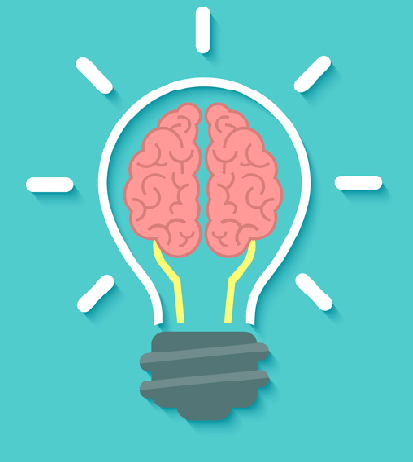
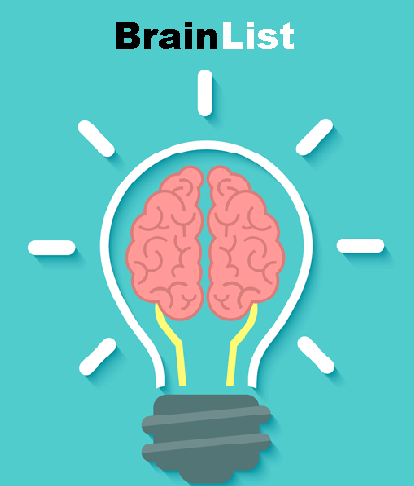
v 1

diff --git a/index.html b/index.html
@@ -1,101 +1,104 @@
 <!DOCTYPE html>
 <html lang="en">
-<head>
-	<title>Login V1</title>
-	<meta charset="UTF-8">
-	<meta name="viewport" content="width=device-width, initial-scale=1">
-<!--===============================================================================================-->	
-	<link rel="icon" type="image/png" href="images/icons/favicon.ico"/>
-<!--===============================================================================================-->
-	<link rel="stylesheet" type="text/css" href="vendor/bootstrap/css/bootstrap.min.css">
-<!--===============================================================================================-->
-	<link rel="stylesheet" type="text/css" href="fonts/font-awesome-4.7.0/css/font-awesome.min.css">
-<!--===============================================================================================-->
-	<link rel="stylesheet" type="text/css" href="vendor/animate/animate.css">
-<!--===============================================================================================-->	
-	<link rel="stylesheet" type="text/css" href="vendor/css-hamburgers/hamburgers.min.css">
-<!--===============================================================================================-->
-	<link rel="stylesheet" type="text/css" href="vendor/select2/select2.min.css">
-<!--===============================================================================================-->
-	<link rel="stylesheet" type="text/css" href="css/util.css">
-	<link rel="stylesheet" type="text/css" href="css/main.css">
-<!--===============================================================================================-->
-</head>
-<body>
-	
-	<div class="limiter">
-		<div class="container-login100">
-			<div class="wrap-login100">
-				<div class="login100-pic js-tilt" data-tilt>
-					<img src="images/img-01.png" alt="IMG">
-				</div>
 
-				<form class="login100-form validate-form">
-					<span class="login100-form-title">
+<head>
+  <title>BrainList</title>
+  <meta charset="UTF-8">
+  <meta name="viewport" content="width=device-width, initial-scale=1">
+  <!--===============================================================================================-->
+  <link rel="icon" type="image/png" href="images/icons/favicon.ico" />
+  <!--===============================================================================================-->
+  <link rel="stylesheet" type="text/css" href="vendor/bootstrap/css/bootstrap.min.css">
+  <!--===============================================================================================-->
+  <link rel="stylesheet" type="text/css" href="fonts/font-awesome-4.7.0/css/font-awesome.min.css">
+  <!--===============================================================================================-->
+  <link rel="stylesheet" type="text/css" href="vendor/animate/animate.css">
+  <!--===============================================================================================-->
+  <link rel="stylesheet" type="text/css" href="vendor/css-hamburgers/hamburgers.min.css">
+  <!--===============================================================================================-->
+  <link rel="stylesheet" type="text/css" href="vendor/select2/select2.min.css">
+  <!--===============================================================================================-->
+  <link rel="stylesheet" type="text/css" href="css/util.css">
+  <link rel="stylesheet" type="text/css" href="css/main.css">
+  <!--===============================================================================================-->
+</head>
+
+<body>
+
+  <div class="limiter">
+    <div class="container-login100">
+      <div class="wrap-login100">
+        <div class="login100-pic js-tilt" data-tilt>
+          <img src="images/img-01.png" alt="IMG">
+        </div>
+
+        <form class="login100-form validate-form">
+          <span class="login100-form-title">
 						Member Login
 					</span>
 
-					<div class="wrap-input100 validate-input" data-validate = "Valid email is required: ex@abc.xyz">
-						<input class="input100" type="text" name="email" placeholder="Email">
-						<span class="focus-input100"></span>
-						<span class="symbol-input100">
+          <div class="wrap-input100 validate-input" data-validate="Valid email is required: ex@abc.xyz">
+            <input class="input100" type="text" name="email" placeholder="Email">
+            <span class="focus-input100"></span>
+            <span class="symbol-input100">
 							<i class="fa fa-envelope" aria-hidden="true"></i>
 						</span>
-					</div>
+          </div>
 
-					<div class="wrap-input100 validate-input" data-validate = "Password is required">
-						<input class="input100" type="password" name="pass" placeholder="Password">
-						<span class="focus-input100"></span>
-						<span class="symbol-input100">
+          <div class="wrap-input100 validate-input" data-validate="Password is required">
+            <input class="input100" type="password" name="pass" placeholder="Password">
+            <span class="focus-input100"></span>
+            <span class="symbol-input100">
 							<i class="fa fa-lock" aria-hidden="true"></i>
 						</span>
-					</div>
-					
-					<div class="container-login100-form-btn">
-						<button class="login100-form-btn">
+          </div>
+
+          <div class="container-login100-form-btn">
+            <button class="login100-form-btn">
 							Login
 						</button>
-					</div>
+          </div>
 
-					<div class="text-center p-t-12">
-						<span class="txt1">
+          <div class="text-center p-t-12">
+            <span class="txt1">
 							Forgot
 						</span>
-						<a class="txt2" href="#">
+            <a class="txt2" href="#">
 							Username / Password?
 						</a>
-					</div>
+          </div>
 
-					<div class="text-center p-t-136">
-						<a class="txt2" href="#">
+          <div class="text-center p-t-136">
+            <a class="txt2" href="#">
 							Create your Account
 							<i class="fa fa-long-arrow-right m-l-5" aria-hidden="true"></i>
 						</a>
-					</div>
-				</form>
-			</div>
-		</div>
-	</div>
-	
-	
+          </div>
+        </form>
+      </div>
+    </div>
+  </div>
 
-	
-<!--===============================================================================================-->	
-	<script src="vendor/jquery/jquery-3.2.1.min.js"></script>
-<!--===============================================================================================-->
-	<script src="vendor/bootstrap/js/popper.js"></script>
-	<script src="vendor/bootstrap/js/bootstrap.min.js"></script>
-<!--===============================================================================================-->
-	<script src="vendor/select2/select2.min.js"></script>
-<!--===============================================================================================-->
-	<script src="vendor/tilt/tilt.jquery.min.js"></script>
-	<script >
-		$('.js-tilt').tilt({
-			scale: 1.1
-		})
-	</script>
-<!--===============================================================================================-->
-	<script src="js/main.js"></script>
+
+
+
+  <!--===============================================================================================-->
+  <script src="vendor/jquery/jquery-3.2.1.min.js"></script>
+  <!--===============================================================================================-->
+  <script src="vendor/bootstrap/js/popper.js"></script>
+  <script src="vendor/bootstrap/js/bootstrap.min.js"></script>
+  <!--===============================================================================================-->
+  <script src="vendor/select2/select2.min.js"></script>
+  <!--===============================================================================================-->
+  <script src="vendor/tilt/tilt.jquery.min.js"></script>
+  <script>
+    $('.js-tilt').tilt({
+      scale: 1.1
+    })
+  </script>
+  <!--===============================================================================================-->
+  <script src="js/main.js"></script>
 
 </body>
+
 </html>
